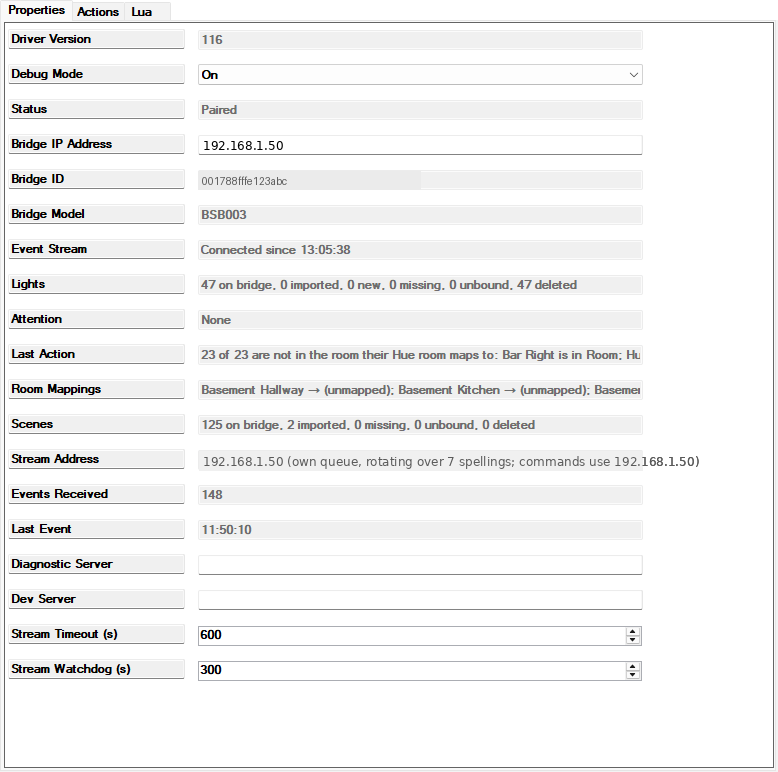
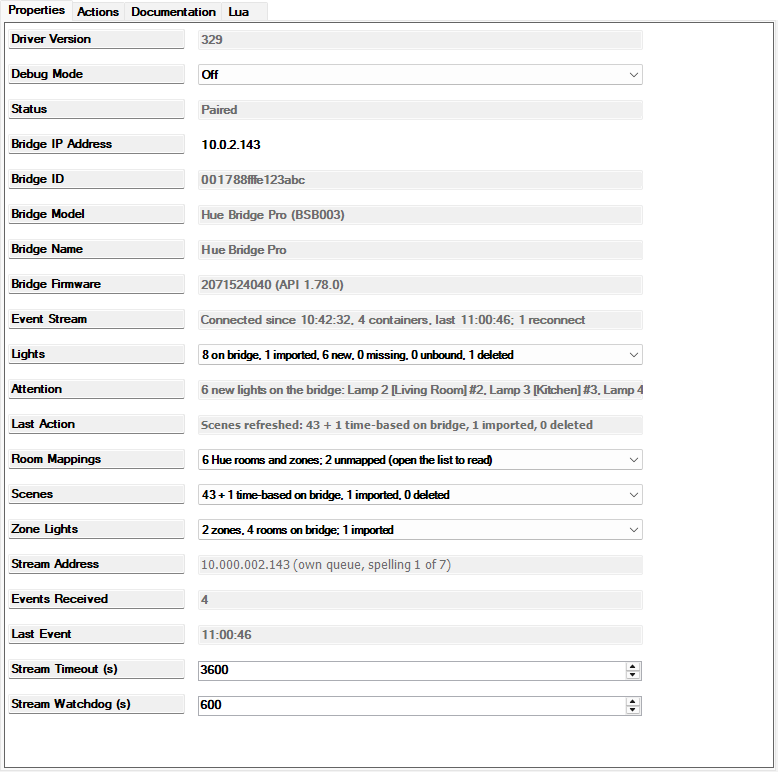
Manual: the last three pictures (bridge Properties, Room Mappings, Connections); all 24 retaken (#61)

diff --git a/src/hue_bridge/www/documentation.html b/src/hue_bridge/www/documentation.html
@@ -261,7 +261,7 @@ dd { margin: 2px 0 6px 18px; }
 </ul>
 <p>Mappings are kept by identity, not by name: renaming a Hue room in the Hue app or a Control4 room in Composer leaves its mapping in place, and the line simply shows the new name.</p>
 
-<img src="img/room-mappings.png" width="647" alt="The Room Mappings row">
+<img src="img/room-mappings.png" width="445" alt="The Room Mappings row">
 <p class="caption">The <b>Room Mappings</b> drop-down, open: the summary on the row, then one line per Hue room or zone, Hue on the left of each arrow, the Control4 room, <code>(unmapped)</code> or <code>(Control4 room gone)</code> on the right.</p>
 
 <p>To read all of a long value, widen the Properties pane, or click <b>Map Rooms By Name</b> and read its result in <b>Last Action</b>.</p>
@@ -433,7 +433,7 @@ dd { margin: 2px 0 6px 18px; }
 </ol>
 <p>If the name matches nothing then Last Action reads <code>not linked 1: Hue Light (device 1221): no unimported Hue light has that name; rename the device in Composer to the Hue light's exact name and run Link Devices again</code>: rename the device in the tree to the exact Hue name and click again. If two Hue lights share that name, <code>&hellip; 2 unimported Hue lights have that name; rename the device in Composer to one Hue light's exact name &hellip;</code> (rename one of them in the Hue app first). If two bound devices carry the same name, <code>&hellip; 2 bound devices share that name; rename one in Composer and run Link Devices again</code>. <code>Not linked: the bound-device lookup failed (see the Lua output)</code> means Composer's connection list was not available at that moment; try again. Linking never moves the device: it stays in whatever room it is in.</p>
 
-<img src="img/connections.png" width="700" alt="Connections view for a Hue Light bound to the bridge">
+<img src="img/connections.png" width="760" alt="Connections view for a Hue Light bound to the bridge">
 <p class="caption">The <b>Connections</b> view of a Hue Light, upper pane <b>Control &amp; Audio Video Connections</b>. The row to look at is the device's <b>Hue Bridge</b> input under Control Inputs, whose Connected To column reads <code>Hue Bridge-&gt;Hue Lights</code>: it is connected to the bridge's <b>Hue Lights</b> output. Devices the bridge creates come connected like this; a hand-added one gets this row filled by dragging the bridge from the lower pane, <b>HUE_BRIDGE Output Devices</b>, onto it. The picture predates the keypad feature: today the Control Outputs also list <b>Top Button Link</b>, <b>Bottom Button Link</b> and <b>Toggle Button Link</b> (chapter 11).</p>
 
 <p>If you remove that connection on a managed device then the bridge counts it as <code>1 unbound</code>, <b>Attention</b> reads <code>1 unbound device: Lamp 4 #4 (device 1211) (bind it to this bridge in Composer, or Forget Light)</code> and the device reads <code>Not bound to a Hue Bridge</code>; connect it again and it resumes by itself, no click needed. A device connected to a second Hue Bridge device by mistake never hears from the bridge it belongs to (a bare one reads <code>Bound; waiting for the bridge</code> for ever); delete that second bridge rather than link anything to it.</p>

diff --git a/docs/screenshots-plan.md b/docs/screenshots-plan.md
@@ -793,3 +793,11 @@ real bars, Enter after editing a value (Composer shows Set only after
 Enter), the font and score in each ledger. Seen: 1 to 3 px of the main
 window at dialog left edges; painted ID values a shade lighter than their
 neighbours.
+
+Round 49, 2026-10-25 11:10, finished the set (24 of 24): `bridge-properties.png`
+after one Refresh Scenes click (a one-row Last Action, painted with the
+neutral counts; the combo faces painted in the font measured on the untouched
+Debug Mode face), `room-mappings.png` cropped to the combo face and its open
+list (445 x 114; the grid needs no scrolling), and `connections.png` with the
+device selected in the Connections view's own list, cropped to the header
+strip and the Hue Bridge input row.
